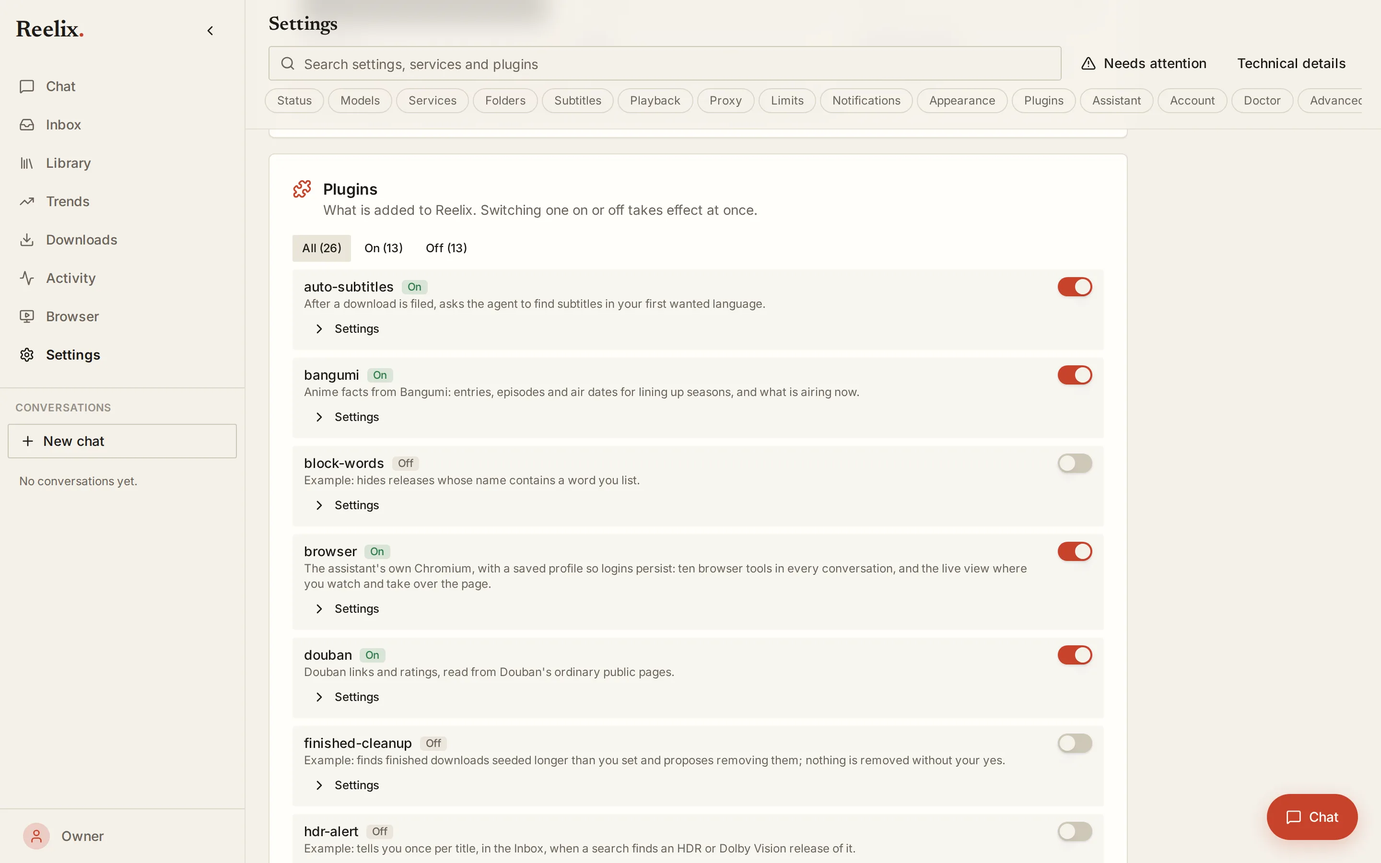
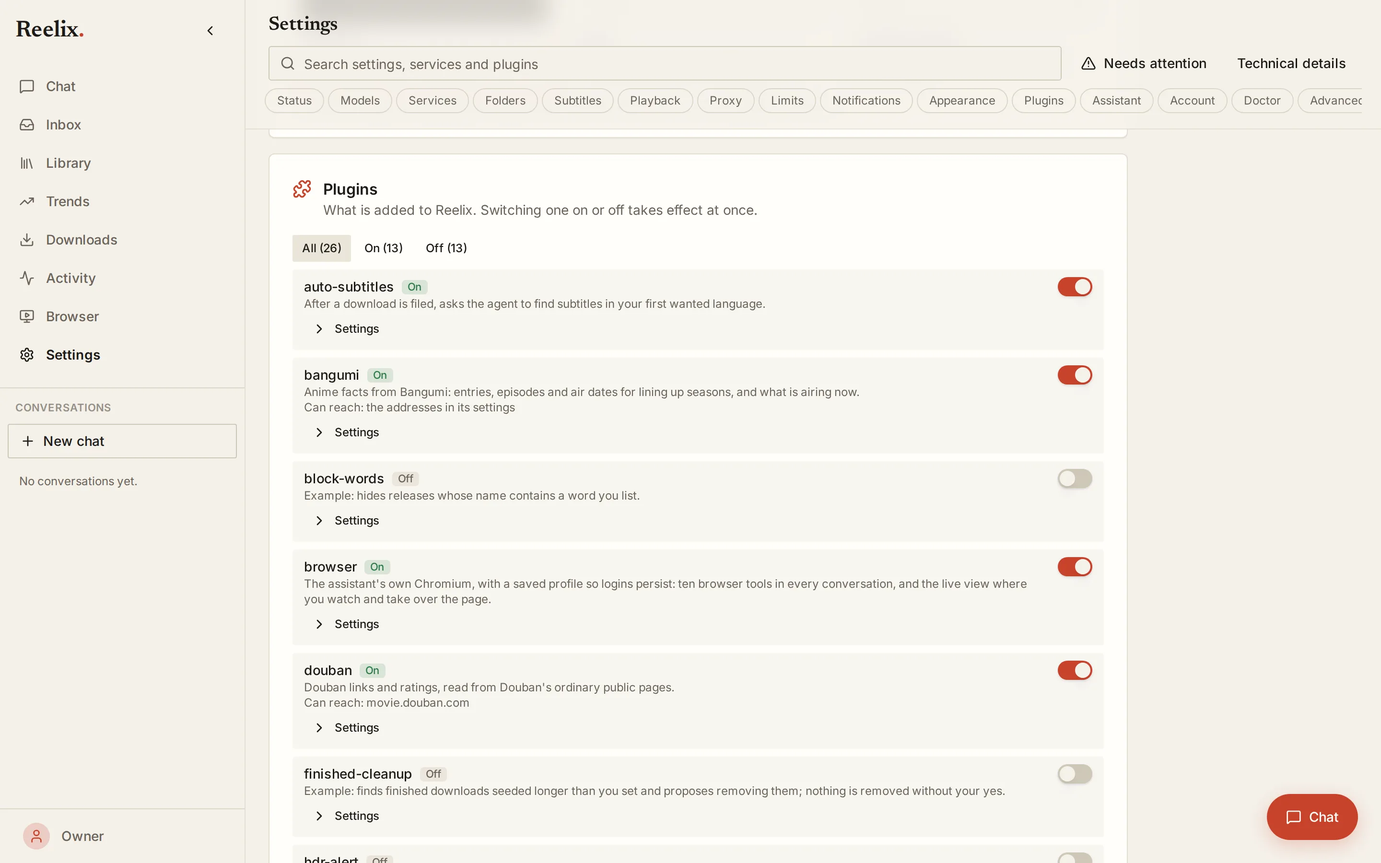
Settings audited against its design; the gaps closed
Each section of docs/settings.md was checked against the code and in a
browser, in the four languages; the result is in its implementation
status. Closed on the way:
- a card saved is checked once and shows what the check found; the last
  check (from Doctor or the card) shows on the card; a Doctor run
  refreshes the cards; "Not tested" has its own neutral line
- "Needs setup" names the missing fields by their labels, with a button
  to the first one
- secrets a plugin makes itself are worded by the plugin (push: created
  automatically; OpenSubtitles: signed in or not) and marked in
  secret.list
- a resting model says why and until when
- a plugin with no budget of its own names the background limit
- plugin cards say what the plugin may reach; switching on a plugin that
  needs setup opens its settings; tool ids under Technical details
- push over HTTP links to the HTTPS guide, gives the Tailscale command
  and names a linked chat app
- the plugins screenshot is retaken

diff --git a/packages/web/src/components/settings/Plugins.tsx b/packages/web/src/components/settings/Plugins.tsx
@@ -4,6 +4,7 @@ import { useEffect, useRef, useState, type ReactNode } from "react";
 import { useTranslation } from "react-i18next";
 import { useNavigate } from "react-router";
 import { endpoints, op, runOp } from "../../lib/api";
+import { useStatus } from "../../app/Sidebar";
 import { useChat } from "../../lib/chat";
 import type { PluginInfo, PluginReview, PluginSettings, SettingSchema } from "../../lib/types";
 import { formatDateTime } from "../../lib/utils";
@@ -202,7 +203,7 @@ export type SecretGroup = { id: string; title: ReactNode; note?: ReactNode; owns
  * A plugin's settings and secrets as one form with one Save (docs/settings.md, "Forms and saving"): the plugin
  * restarts once. Fields marked advanced go under Advanced; secrets it makes itself show as a state.
  */
-export function PluginForm({ data, footer, also, groups }: { data: PluginSettings; footer?: ReactNode; also?: AlsoInForm; groups?: SecretGroup[] }) {
+export function PluginForm({ data, footer, also, groups, onSaved }: { data: PluginSettings; footer?: ReactNode; also?: AlsoInForm; groups?: SecretGroup[]; onSaved?: (state: PluginInfo["state"]) => void }) {
 	const { t } = useTranslation(["settings", "common"]);
 	const qc = useQueryClient();
 	const schema = data.schema;
@@ -249,7 +250,8 @@ export function PluginForm({ data, footer, also, groups }: { data: PluginSetting
 			setErrors(Object.fromEntries((r.errors ?? []).map((e) => [e.path, e.message])));
 			toast({ title: t(r.result === "applied" ? "plugins.saved" : "plugins.notSaved", { id: data.id }), description: r.next, variant: r.result === "applied" ? undefined : "destructive" });
 			if (r.result === "applied") await qc.invalidateQueries({ queryKey: ["plugin-settings", data.id] });
-			qc.invalidateQueries({ queryKey: ["plugins"] });
+			await qc.invalidateQueries({ queryKey: ["plugins"] });
+			if (r.result === "applied") onSaved?.(r.state);
 			qc.invalidateQueries({ queryKey: ["status"] });
 		} catch (e) {
 			toast({ title: t("plugins.notSaved", { id: data.id }), description: message(e), variant: "destructive" });
@@ -263,7 +265,7 @@ export function PluginForm({ data, footer, also, groups }: { data: PluginSetting
 		if (s.managed)
 			return (
 				<Row key={s.key} label={label} technical={s.key}>
-					<p className="flex min-h-10 items-center text-sm text-muted-foreground">{t(s.set ? "form.managedSet" : "form.managedNotYet")}</p>
+					<p className="flex min-h-10 items-center text-sm text-muted-foreground">{data.strings[`secrets.${s.name}_${s.set ? "set" : "unset"}`] ?? t(s.set ? "form.managedSet" : "form.managedNotYet")}</p>
 				</Row>
 			);
 		return (
@@ -440,6 +442,7 @@ export function PluginTechnical({ p }: { p: PluginInfo }) {
 		[t("plugins.events"), p.events],
 		[t("plugins.runs"), p.runs],
 		[t("plugins.skills"), p.skills],
+		[t("plugins.toolIds"), p.tools],
 		[t("plugins.hooksLabel"), p.hooks],
 	] as const;
 	return (
@@ -464,13 +467,14 @@ const ROLES = ["chat", "background", "glossary", "translate", "review"] as const
 function ModelUse({ p, change }: { p: PluginInfo; change: (fn: () => Promise<{ next: string }>) => Promise<void> }) {
 	const { t } = useTranslation("settings");
 	const m = p.model!;
+	const { data: status } = useStatus();
 	const [budget, setBudget] = useState(String(m.budgetUsd));
 	const set = (input: Record<string, unknown>) => change(() => op<{ next: string }>("plugin.model", { id: p.id, ...input }));
 	return (
 		<div className="space-y-2 text-sm">
 			<p className="font-medium">{t("plugins.model.title")}</p>
 			<p className={`text-xs ${m.reached ? "text-warning" : "text-muted-foreground"}`}>
-				{m.unmetered ? t("plugins.model.spentUnmetered", { usd: m.spentUsd.toFixed(2), tokens: m.tokens }) : t("plugins.model.spent", { usd: m.spentUsd.toFixed(2), budget: m.budgetUsd, tokens: m.tokens })}
+				{m.unmetered ? t("plugins.model.spentUnmetered", { usd: m.spentUsd.toFixed(2), tokens: m.tokens, background: status?.spend.capUsd ?? "?" }) : t("plugins.model.spent", { usd: m.spentUsd.toFixed(2), budget: m.budgetUsd, tokens: m.tokens })}
 				{m.reached && ` ${t("plugins.model.reached")}`}
 			</p>
 			<div className="flex items-center gap-3">
@@ -593,13 +597,20 @@ function SetupOffer({ p, offered }: { p: PluginInfo; offered: boolean }) {
 	);
 }
 
-/** What stops a plugin, in words, or nothing. */
-export function PluginProblem({ p }: { p: PluginInfo }) {
+/** What a plugin may reach on the network, in words: its consequence for the owner, not the manifest's terms. */
+function Reach({ p }: { p: PluginInfo }) {
 	const { t } = useTranslation("settings");
-	const label = (name: string) => name.replace(/\.(\d+)\./g, (_m, n) => ` #${Number(n) + 1} `).replace(/_/g, " ");
+	if (!p.reach.length) return null;
+	const words = [...new Set(p.reach.map((r) => (r === "*" ? t("plugins.anyHost") : r.startsWith("config:") ? t("plugins.reachSetting") : r)))];
+	return <p className="break-words text-xs text-muted-foreground">{t("plugins.canReach", { what: words.join(", ") })}</p>;
+}
+
+/** What stops a plugin, in words, or nothing. */
+export function PluginProblem({ p, setup = true }: { p: PluginInfo; setup?: boolean }) {
+	const { t } = useTranslation("settings");
 	return (
 		<>
-			{p.needsSetup.length > 0 && <p className="text-xs text-warning">{t("plugins.needsSetup", { what: p.needsSetup.map(label).join(", ") })}</p>}
+			{setup && p.needsSetup.length > 0 && <p className="text-xs text-warning">{t("plugins.needsSetupOpen")}</p>}
 			{p.waitingFor.length > 0 && <p className="break-words text-xs text-warning">{t("plugins.waitingFor", { seams: p.waitingFor.join(", ") })}</p>}
 			{p.waitingForPlugins.map((q) => (
 				<p key={q.id} className="break-words text-xs text-warning" data-testid={`waits-${p.id}-${q.id}`}>
@@ -659,6 +670,12 @@ export function Plugins() {
 				return;
 			}
 			setSetupOffer(on && r.state === "active" && data?.find((x) => x.id === id)?.setup ? id : undefined);
+			// Switched on but missing what it needs: its settings open, so "needs setup" is never a surprise.
+			if (on) {
+				await qc.invalidateQueries({ queryKey: ["plugins"] });
+				const now = qc.getQueryData<PluginInfo[]>(["plugins"])?.find((x) => x.id === id);
+				if (now?.needsSetup.length) setOpen(id);
+			}
 			toast({ title: t(r.result === "applied" ? "plugins.applied" : "plugins.failed", { id }), description: r.next, variant: r.result === "applied" ? undefined : "destructive" });
 		} catch (e) {
 			toast({ title: t("plugins.failed", { id }), description: message(e), variant: "destructive" });
@@ -699,6 +716,7 @@ export function Plugins() {
 									{p.failures > 0 && <Badge tone="warning">{t("plugins.failures", { count: p.failures })}</Badge>}
 								</p>
 								{p.description && <p className="text-xs text-muted-foreground">{p.description}</p>}
+								<Reach p={p} />
 								{view.technical && <Technical>{`${p.id} ${p.version}`}</Technical>}
 								<PluginProblem p={p} />
 								{p.source && <InstalledActions p={p} onReview={setReview} />}

diff --git a/packages/web/src/components/settings/Services.tsx b/packages/web/src/components/settings/Services.tsx
@@ -4,7 +4,7 @@ import { useState, type ReactNode } from "react";
 import { useTranslation } from "react-i18next";
 import { useStatus } from "../../app/Sidebar";
 import { endpoints, op, runOp } from "../../lib/api";
-import type { DoctorCheck, PluginInfo } from "../../lib/types";
+import type { DoctorCheck, PluginInfo, PluginSettings } from "../../lib/types";
 import { CheckRow } from "./Doctor";
 import { cn } from "../../lib/utils";
 import { Badge, type Tone } from "../common/Badge";
@@ -103,7 +103,8 @@ export function PluginService({ plugin, title, effect, children, also, groups }:
 	const state = pluginServiceState(p, test.results);
 	return (
 		<ServiceCard id={plugin} title={title} state={state} effect={effect(state)} search={[plugin, p.description]}>
-			<PluginProblem p={p} />
+			<PluginProblem p={p} setup={false} />
+			{settings.data && p.state !== "disabled" && <SetupNeeds p={p} data={settings.data} />}
 			{p.state === "disabled" ? (
 				<Button
 					variant="outline"
@@ -127,6 +128,8 @@ export function PluginService({ plugin, title, effect, children, also, groups }:
 						data={settings.data}
 						also={also}
 						groups={groups}
+						// Saved and started again: checked once, and the card shows what the check found.
+						onSaved={(s) => s === "active" && void test.run()}
 						footer={
 							<div className="space-y-2">
 								<Button type="button" variant="outline" disabled={test.busy || p.needsSetup.length > 0} onClick={() => void test.run()}>
@@ -134,7 +137,7 @@ export function PluginService({ plugin, title, effect, children, also, groups }:
 									{t("services.test")}
 								</Button>
 								{p.needsSetup.length > 0 && <p className="text-xs text-muted-foreground">{t("services.testAfterSetup")}</p>}
-								<TestResults results={test.results} rerun={() => void test.run()} />
+								<TestResults results={test.results ?? p.lastCheck?.results} rerun={() => void test.run()} />
 							</div>
 						}
 					/>
@@ -143,6 +146,36 @@ export function PluginService({ plugin, title, effect, children, also, groups }:
 				</>
 			)}
 		</ServiceCard>
+	);
+}
+
+/** What the plugin still needs, by the names its form shows, with a button to the first one. */
+function SetupNeeds({ p, data }: { p: PluginInfo; data: PluginSettings }) {
+	const { t } = useTranslation("settings");
+	if (!p.needsSetup.length) return null;
+	const secretNames = new Set([...data.secrets.map((s) => s.name), ...data.perEntry.map((s) => s.name)]);
+	const named = p.needsSetup.map((path) => {
+		const parts = path.split(".");
+		const entry = parts.find((x) => /^\d+$/.test(x));
+		const n = entry === undefined ? "" : ` #${Number(entry) + 1}`;
+		const last = parts.at(-1)!;
+		if (secretNames.has(last) && (parts.length === 1 || data.perEntry.some((s) => s.per === parts[0] && s.name === last)))
+			return { label: `${data.strings[`secrets.${last}`] ?? last}${n}`, anchor: `secret-plugins.${p.id}.${path}` };
+		const key = parts.filter((x) => !/^\d+$/.test(x)).join(".");
+		return { label: `${data.strings[`settings.${key}`] ?? last.replace(/_/g, " ")}${n}`, anchor: `field-plugins.${p.id}.${path}` };
+	});
+	const go = () => {
+		const el = document.getElementById(named[0]!.anchor);
+		el?.scrollIntoView({ behavior: "smooth", block: "center" });
+		(el?.matches("input, select, textarea") ? el : el?.querySelector<HTMLElement>("input, select, textarea"))?.focus({ preventScroll: true });
+	};
+	return (
+		<div className="flex flex-wrap items-center gap-2 rounded-md bg-warning/10 px-3 py-2 text-sm">
+			<span className="min-w-0 flex-1 text-warning">{t("services.needs", { what: named.map((x) => x.label).join(", ") })}</span>
+			<Button type="button" size="sm" variant="outline" onClick={go}>
+				{t("services.fillIn")}
+			</Button>
+		</div>
 	);
 }
 
@@ -450,7 +483,7 @@ function IndexersCard() {
 /** Settings → Services: one card per connection (docs/settings.md, "Services: one card per connection"). */
 export function Services({ config }: { config: Record<string, unknown> }) {
 	const { t } = useTranslation("settings");
-	const effect = (kind: "downloads" | "mediaServer") => (state: ServiceState) => (state === "connected" ? t(`services.${kind}.ok`) : state === "off" || state === "unused" ? t(`services.${kind}.off`) : t(`services.${kind}.broken`));
+	const effect = (kind: "downloads" | "mediaServer") => (state: ServiceState) => (state === "not_tested" ? t("services.notTested") : state === "connected" ? t(`services.${kind}.ok`) : state === "off" || state === "unused" ? t(`services.${kind}.off`) : t(`services.${kind}.broken`));
 	return (
 		<div className="space-y-4">
 			<ActiveProvider config={config} setting="downloader" operation="download.downloaders" kind="downloader" mapSetting="path_maps.downloaders" example={{ theirs: "/downloads", ours: "/media/torrents" }} effect={effect("downloads")} />

diff --git a/packages/web/src/screens/SettingsScreen.tsx b/packages/web/src/screens/SettingsScreen.tsx
@@ -24,7 +24,8 @@ import { ApiError, endpoints, op, runOp } from "../lib/api";
 import { useChat } from "../lib/chat";
 import { disablePush, enablePush, isIos, pushState, testPush, type PushState } from "../lib/push";
 import { intlLocale } from "../lib/i18n";
-import type { DoctorCheck } from "../lib/types";
+import type { ModelFailure } from "../lib/types";
+import { failureReason } from "../components/common/ModelFailure";
 import { cn, formatNumber, timeAgo } from "../lib/utils";
 
 /** A dollar amount in the UI language's format (magpie limits are in USD). */
@@ -194,7 +195,9 @@ function ModelsSection({ config }: { config: Record<string, unknown> }) {
 							help={
 								<>
 									{t(`models.roleHelp.${r}`)} {uses.length > 0 && (inherits ? t("models.usesInherited", { models: uses.join(" › "), role: t(`models.role.${INHERITS[r as keyof typeof INHERITS]}`) }) : t("models.uses", { models: uses.join(" › ") }))}
-									{resting.length > 0 && <span className="block text-warning">{t("models.resting", { models: resting.join(", ") })}</span>}
+									{resting.map((m) => (
+										<RestingNote key={m} model={m} rest={status?.model.rests.find((x) => x.model === m)} />
+									))}
 								</>
 							}
 							attention={r === "chat" && !uses.length}
@@ -243,6 +246,17 @@ function ModelsSection({ config }: { config: Record<string, unknown> }) {
 				</Searchable>
 			)}
 		</Section>
+	);
+}
+
+/** A model resting after a failure: why, and from when it is tried again. */
+function RestingNote({ model, rest }: { model: string; rest?: { until: string } & ModelFailure }) {
+	const { t } = useTranslation("settings");
+	const { t: tm } = useTranslation("models");
+	return (
+		<span className="block text-warning">
+			{rest ? t("models.restingWhy", { model, reason: failureReason(tm, rest), until: new Date(rest.until).toLocaleTimeString(intlLocale(), { hour: "2-digit", minute: "2-digit" }) }) : t("models.resting", { models: model })}
+		</span>
 	);
 }
 
@@ -488,11 +502,12 @@ function Notifications() {
 				<p className="text-sm text-muted-foreground">{t("notifications.pluginOff")}</p>
 			</Searchable>
 		);
-	const hint = state === "needs_https" ? t("notifications.needsHttpsInbox") : state === "needs_install" ? t("notifications.needsInstall") : state === "unsupported" ? t(isIos() ? "notifications.unsupportedIos" : "notifications.unsupported") : state === "denied" ? t("notifications.denied") : null;
+	const hint = state === "needs_https" ? null : state === "needs_install" ? t("notifications.needsInstall") : state === "unsupported" ? t(isIos() ? "notifications.unsupportedIos" : "notifications.unsupported") : state === "denied" ? t("notifications.denied") : null;
 	return (
 		<Row label={t("notifications.thisDevice")} badge={<Badge tone={state === "on" ? "success" : state === "off" ? "muted" : "warning"}>{state === "on" ? t("notifications.on") : state === "off" ? t("notifications.off") : t("notifications.notReady")}</Badge>} search={[hint ?? undefined]}>
 			<div className="space-y-2">
 				{hint && <p className="text-sm text-muted-foreground">{hint}</p>}
+				{state === "needs_https" && <HttpsHelp />}
 				<div className="flex flex-wrap items-center gap-2">
 					{state === "off" && (
 						<Button variant="outline" disabled={!!busy} onClick={() => run("on", enablePush)}>
@@ -531,6 +546,26 @@ function Notifications() {
 				)}
 			</div>
 		</Row>
+	);
+}
+
+/** Why this device gets no notifications over plain HTTP, what still works, and how to get HTTPS (docs/web-app.md). */
+function HttpsHelp() {
+	const { t } = useTranslation("settings");
+	const channels = useQuery({ queryKey: ["channels"], queryFn: endpoints.channels });
+	const linked = channels.data?.filter((c) => c.linked) ?? [];
+	return (
+		<div className="space-y-1 text-sm text-muted-foreground">
+			<p>{t("notifications.needsHttpsInbox")}</p>
+			<p>
+				{t("notifications.httpsHow")}{" "}
+				<a href="https://github.com/4444zyf/Reelix/blob/main/docs/web-app.md" target="_blank" rel="noreferrer noopener" className="text-primary hover:underline">
+					{t("notifications.httpsGuide")}
+				</a>
+			</p>
+			<p className="font-mono text-xs">tailscale serve --bg 7878</p>
+			{linked.length > 0 && <p>{t("notifications.otherChannels", { channels: linked.map((c) => c.label).join(", ") })}</p>}
+		</div>
 	);
 }
 

diff --git a/packages/core/src/ops/media.ts b/packages/core/src/ops/media.ts
@@ -81,9 +81,11 @@ defineOperation({
 		// A plugin's secrets are named by the plugin; their labels come from its strings.
 		const declared = ctx.app.plugins?.list().flatMap((p) => p.secrets) ?? [];
 		const names = new Set([...Object.keys(KNOWN_SECRETS), ...declared, ...Object.keys(ctx.app.secrets)]);
-		return [...names].sort().map((k) => ({ key: k, what: KNOWN_SECRETS[k] ?? ctx.app.plugins?.secretLabel(k) ?? "", set: !!ctx.app.secrets[k] }));
+		// A secret a plugin makes itself is listed as such: nobody is asked for it (docs/settings.md, "Credentials").
+		const managed = new Set(ctx.app.plugins?.list().flatMap((p) => p.managedSecrets) ?? []);
+		return [...names].sort().map((k) => ({ key: k, what: KNOWN_SECRETS[k] ?? ctx.app.plugins?.secretLabel(k) ?? "", set: !!ctx.app.secrets[k], ...(managed.has(k) ? { managed: true } : {}) }));
 	},
-	toText: (o: any[]) => o.map((s) => `${s.set ? "set    " : "missing"} ${s.key}${s.what ? ` — ${s.what}` : ""}`).join("\n"),
+	toText: (o: any[]) => o.map((s) => `${s.set ? "set    " : "missing"} ${s.key}${s.what ? ` — ${s.what}` : ""}${s.managed ? " (made by its plugin; not asked for)" : ""}`).join("\n"),
 });
 
 defineOperation({

diff --git a/packages/web/src/components/settings/Doctor.tsx b/packages/web/src/components/settings/Doctor.tsx
@@ -1,4 +1,4 @@
-import { useQuery } from "@tanstack/react-query";
+import { useQuery, useQueryClient } from "@tanstack/react-query";
 import { AlertTriangle, CheckCircle2, CircleDashed, CircleDot, MessageSquare, RefreshCw, Stethoscope, XCircle } from "lucide-react";
 import { useState } from "react";
 import { useTranslation } from "react-i18next";
@@ -110,6 +110,7 @@ export function Doctor() {
 	const { t, word, title } = useWording();
 	const { askAbout } = useChat();
 	const { data: status } = useStatus();
+	const qc = useQueryClient();
 	const [checks, setChecks] = useState<DoctorCheck[]>();
 	const [quick, setQuick] = useState(false);
 	const [busy, setBusy] = useState(false);
@@ -120,6 +121,9 @@ export function Doctor() {
 		setError(undefined);
 		try {
 			setChecks(await endpoints.doctor(q));
+			// Each plugin's result is now its last check: the service cards and Status show it.
+			void qc.invalidateQueries({ queryKey: ["plugins"] });
+			void qc.invalidateQueries({ queryKey: ["doctor-quick"] });
 		} catch (e) {
 			setError(e instanceof Error ? e.message : String(e));
 		} finally {

diff --git a/packages/server/test/plugin-owner.test.ts b/packages/server/test/plugin-owner.test.ts
@@ -295,6 +295,9 @@ test("what a plugin needs before it works, and the secrets it makes itself, are 
 		assert.deepEqual([info("push").secrets, info("push").managedSecrets], [[], ["plugins.push.vapid_private"]]);
 		const push = (await runOperation(t.app, "plugin.settings", { id: "push" }, { actor: "owner:web" })).output as any;
 		assert.equal(push.secrets[0].managed, true);
+		t.app.setSecret("plugins.push.vapid_private", "made-by-push-0123");
+		const listed = (await runOperation(t.app, "secret.list", {}, { actor: "owner:web" })).output as any[];
+		assert.equal(listed.find((s) => s.key === "plugins.push.vapid_private")?.managed, true, "listed as made by its plugin");
 		const refused = (await runOperation(t.app, "plugin.configure", { id: "push", secrets: { vapid_private: "x" } }, { actor: "owner:web" })).output as any;
 		assert.deepEqual([refused.result, refused.errors[0].message], ["failed", "made by the plugin itself"]);
 		await t.manager.disable("jellyfin");

diff --git a/packages/core/src/plugins.ts b/packages/core/src/plugins.ts
@@ -185,6 +185,8 @@ export type PluginInfo = {
 	managedSecrets: string[];
 	/** Optional and nothing of it set up: "not used", not "needs setup" (`needsSetup` is empty then). */
 	unused: boolean;
+	/** What it may reach on the network, as declared (`uses.network`): hosts, `config:<setting>` (the address in that setting), `*` (any site). */
+	reach: string[];
 	/** It declares network access (`uses.network`) or asked for its proxy: its requests can go through the proxy. */
 	network: boolean;
 	/** What it cannot work without and is not filled in yet: settings (paths, `servers`) and secret names. Empty for a plugin that is off. */

diff --git a/packages/server/src/plugins/manager.ts b/packages/server/src/plugins/manager.ts
@@ -260,6 +260,7 @@ export class PluginManager implements PluginControl {
 					runs: p.manifest?.uses.runs ?? [],
 					secrets: this.secretRows(p).filter((s) => !s.managed).map((s) => s.key),
 					managedSecrets: this.secretRows(p).filter((s) => s.managed).map((s) => s.key),
+					reach: p.manifest?.uses.network ?? [],
 					network: (p.manifest?.uses.network.length ?? 0) > 0 || readsProxy.has(p.id),
 					...this.setupState(p),
 					tools: (p.manifest?.uses.tools ?? []).map((t) => `${p.id}_${t}`),

diff --git a/packages/web/src/lib/types.ts b/packages/web/src/lib/types.ts
@@ -236,6 +236,8 @@ export type PluginInfo = {
 	/** Secrets it makes itself: shown as a state, never as a field. */
 	managedSecrets: string[];
 	network: boolean;
+	/** Hosts it may reach, `config:<setting>` or `*`. */
+	reach: string[];
 	/** Optional and nothing of it set up yet: shown as "optional, not connected". */
 	unused: boolean;
 	/** Required settings and secrets that are empty, by name (`servers.0.api_key`); empty while it is off. */

diff --git a/docs/api.md b/docs/api.md
@@ -40,8 +40,8 @@ Useful operations and their `output` shapes:
 - `config.show {}` → `{ summary, config, warning? }`; `config.set { path, value }` (`plugins.*`, `proxy.*`, `web.*`, `limits.*`, `downloader`, `media_server` and the address of a service whose secret is stored need the owner: `owner_only` for anyone else without an approval, docs/plugins.md §11.2).
 - Connecting a model provider ([models.md](models.md), "Connecting a provider"), all needing the running server: `model.providers {}` → `[{ id, name, configured, source?, models, methods: [{ type: "api_key"|"oauth", name }] }]`; `model.login { provider, type }` (owner only) starts pi's login → `{ id, provider, type, status: "running"|"asking"|"done"|"failed"|"cancelled", events: [{ type: "info"|"auth_url"|"device_code"|"progress", … }], question?: { id, type: "text"|"secret"|"select"|"manual_code", message, placeholder?, options? }, error? }`; `model.login_state { id }`, `model.login_answer { id, question, value }` (the value is never recorded), `model.login_cancel { id }` → the same; `model.logout { provider }` → `{ provider, signed_out }`. A login nobody answers is given up after 15 minutes.
 - `model.test { role? }` (read; `role` one of `chat` (default), `background`, `glossary`, `translate`, `review`) asks the role's models one short question, in their order, with a 60-second limit per model → `{ ok: true, role, model, answer, ms, skipped: ModelFailure[] }` or `{ ok: false, role, ms, failures: ModelFailure[], message }`. Needs the running server. `ModelFailure = { model?, class: "signed_out"|"timeout"|"rate_limited"|"budget"|"capability"|"other", action: "reconnect"|"retry"|"wait"|"choose_model", capability?: "images"|"context", until?, message }` ([models.md](models.md), "Why a call failed").
-- `secret.list {}` → `[{ key, what, set }]`, including the secrets plugins declare (their `what` from the plugin's strings); `secret.set { key, value }` (only from a password field).
-- `plugin.list {}` → `[{ id, version, description, state: "active"|"waiting"|"failed"|"disabled", error?, failures, waitingFor, waitingForPlugins: [{ id, range, version?, state? }], requires: [{ id, range }], owns, provides, hooks, operations, jobs, events, runs, secrets, managedSecrets, needsSetup, unused, network }]`; `secrets` are the full keys the owner gives it (one per entry for a secret declared per list entry), `managedSecrets` those it makes itself, `needsSetup` its required settings and secrets that are empty (by name, `servers.0.api_key`), `unused` an optional plugin with nothing of it set up, `network` whether its requests can go through the proxy; `plugin.enable { id }`, `plugin.disable { id, with_dependents? }` (owner only) → `{ id, result: "applied"|"failed"|"needs_confirmation", state, dependents?, next }`. `plugin.list` also gives `tools, toolsOn, trial, trialResult?: { calls, hidden, firstChanged, changed, since? }`, and `lastCheck?: { at, results: [Check] }` (below, `plugin.check`).
+- `secret.list {}` → `[{ key, what, set, managed? }]`, including the secrets plugins declare (their `what` from the plugin's strings; `managed` for one a plugin makes itself, which nobody is asked for); `secret.set { key, value }` (only from a password field).
+- `plugin.list {}` → `[{ id, version, description, state: "active"|"waiting"|"failed"|"disabled", error?, failures, waitingFor, waitingForPlugins: [{ id, range, version?, state? }], requires: [{ id, range }], owns, provides, hooks, operations, jobs, events, runs, secrets, managedSecrets, needsSetup, unused, network }]`; `secrets` are the full keys the owner gives it (one per entry for a secret declared per list entry), `managedSecrets` those it makes itself, `needsSetup` its required settings and secrets that are empty (by name, `servers.0.api_key`), `unused` an optional plugin with nothing of it set up, `network` whether its requests can go through the proxy, `reach` what it may reach as declared (hosts, `config:<setting>`, `*`); `plugin.enable { id }`, `plugin.disable { id, with_dependents? }` (owner only) → `{ id, result: "applied"|"failed"|"needs_confirmation", state, dependents?, next }`. `plugin.list` also gives `tools, toolsOn, trial, trialResult?: { calls, hidden, firstChanged, changed, since? }`, and `lastCheck?: { at, results: [Check] }` (below, `plugin.check`).
 - Plugin pages (docs/plugins.md §12): `plugin.settings { id, lang? }` → `{ id, state, schema?, values, strings, secrets: [{ name, key, set, managed, required, per?, entry? }], perEntry: [{ per, name, required }], buttons, note? }` (never a secret's value); `plugin.configure { id, settings?, secrets?, origins? }` (owner only; `secrets` by name, a value or null, refused from the agent; `origins`: per list with a secret per entry, each entry's index before the change or null) stores settings and secrets in one change, one restart → the management result plus `errors?: [{ path, message }]`; `plugin.hooks {}` → `[{ hook, mode, plugins: [{ plugin, trial }] }]`; `plugin.hook_order { hook, plugins }`, `plugin.trial { id, on }`, `plugin.tools { id, on }` (owner only) → `{ next }`; `plugin.inspect { id? }` (the agent's `plugin_inspect`); `plugin.press { card, button }` runs a card button's operation as the plugin → `{ operation, text, output, card? }`; `plugin.job_prompt { id, on }` (owner only) → `{ next }`; `plugin.model { id, daily_usd?, roles?, unmetered? }` (owner only) → `{ model, next }`, where `plugin.list` gives each plugin that uses the owner's models `model: { budgetUsd, unmetered, roles, spentUsd, tokens, reached }` (today, since local midnight).
 - Translators: `subtitle.translators {}` → `{ active, running, providers: [{ id, label, plugin }] }`; the active one is the owner's setting `translator`.
 - Plugin routes (docs/plugins.md §6, §11.5): `/api/plugins/<id>/<path>`, behind the sign-in like every `/api/*` route, one dispatch route for all plugins. A route answers JSON, an attachment or server-sent events, never a page; every answer has `x-content-type-options: nosniff` and `content-security-policy: default-src 'none'; sandbox`. A plugin that is not running answers 404 saying so; a refusal is 400 `{ error, code }`.

diff --git a/docs/settings.md b/docs/settings.md
@@ -391,7 +391,37 @@ Built:
 - **Telegram** says a model's failure and the next model's answer in words, as the web chat does.
 - **Other operations:** `library.players`, `proxy.services`, `preferences.show`, `preferences.set`.
 
+### Audit against this document (2026-11-22)
+
+Each section above was checked against the code and in a browser on a demo server (desktop, and a phone width for Services and Folders), in the four languages for Status, Services, Doctor, Notifications and a plugin card:
+
+| Section | State |
+| --- | --- |
+| Principles | Held: no config keys, JSON or capability ids in the default view; every unavailable state has cause, effect and action; Switch, Test and "ask the assistant" only when they can work. |
+| Page structure | Built, with Proxy and Limits as sections of their own (below). |
+| Credentials Reelix manages | Built: shown as a state, worded by the plugin (push: "Created automatically", the devices under Notifications; OpenSubtitles: signed in or not); refused by `plugin.configure` and the agent; `secret.list` marks them. |
+| Core credentials | Built: TMDB and magpie on their cards; the one-time provider key never a field; labelled password fields. |
+| Search and filter | Built and checked (a section hidden by one search comes back with the next). |
+| Forms and saving | Built: one Save per section and card; a card saved is checked once and shows the result. |
+| Layout fixes | Built, except the media folder's Browse (below). |
+| Services and States | Built: Not used, Off, Paused, Needs setup (the missing fields named, a button to the first), Not reachable, Connected (what the check found), Not tested; the last check, from Doctor or the card, shows on the card. |
+| Folders | Built: labels, folder checks, path-map editor with its checks, and the same-path check from Doctor. |
+| Subtitles, proxy, playback | Built. |
+| Models | Built: the no-model flow with sign-in in the page, roles with the model each uses and why a model rests and until when, the test, failure classes in chat, chat apps and jobs. |
+| Limits and the assistant | Built: each limit's effect; a plugin with no budget of its own names the background limit that still applies. |
+| Plugin cards | Built: purpose, state, problem, switch, what it may reach in plain words; How it runs and Technical details collapsed; switching on a plugin that needs setup opens its settings. |
+| Status and Doctor | Built. |
+| Copy fixes | Built: push on HTTP says the Inbox works, links to the HTTPS guide (`docs/web-app.md`), gives the Tailscale command and names a linked chat app. |
+| Acceptance cases | Each has a test (core, server or plugin tests), and the browser walk-through above. |
+
+Not checked by hand: Telegram's messages with a real bot (the plugin's tests run against a fake Bot API), and a real iPhone for push (as before, docs/web-app.md).
+
 Different from the text above, and why:
+- Proxy and Limits are sections of their own, and the nightly time and time zone are under Limits, not Advanced: the owner sets them, they are not tuning. A plugin's endpoint overrides, runtime and tools are under its card's Advanced and How it runs, where they belong to it, not under the page's Advanced.
+- The media folder has no Browse button: the folder picker browses inside the media folder, so it cannot choose it.
+- Lists are ordered with up and down buttons, not drag handles: the same on a phone and with a keyboard.
+- Models are not offered in "use the proxy for": nothing routes model traffic through Reelix's proxy (pi's providers make their own requests). The old help text named it; it no longer does.
+- A stored secret's Remove is a button inside its field, not a menu: one click fewer, and still apart from Save.
 - Technical details is one switch for the page, not a disclosure per field: one disclosure per field doubled the clutter it was meant to remove.
 - The switch "main model reads images" is gone instead of becoming "Image reading": nothing read it (`models.main_reads_images` is dropped from old settings).
 - `KNOWN_SECRETS` keeps its English descriptions: the command line and the agent read them. The web UI has its own labels in four languages.
